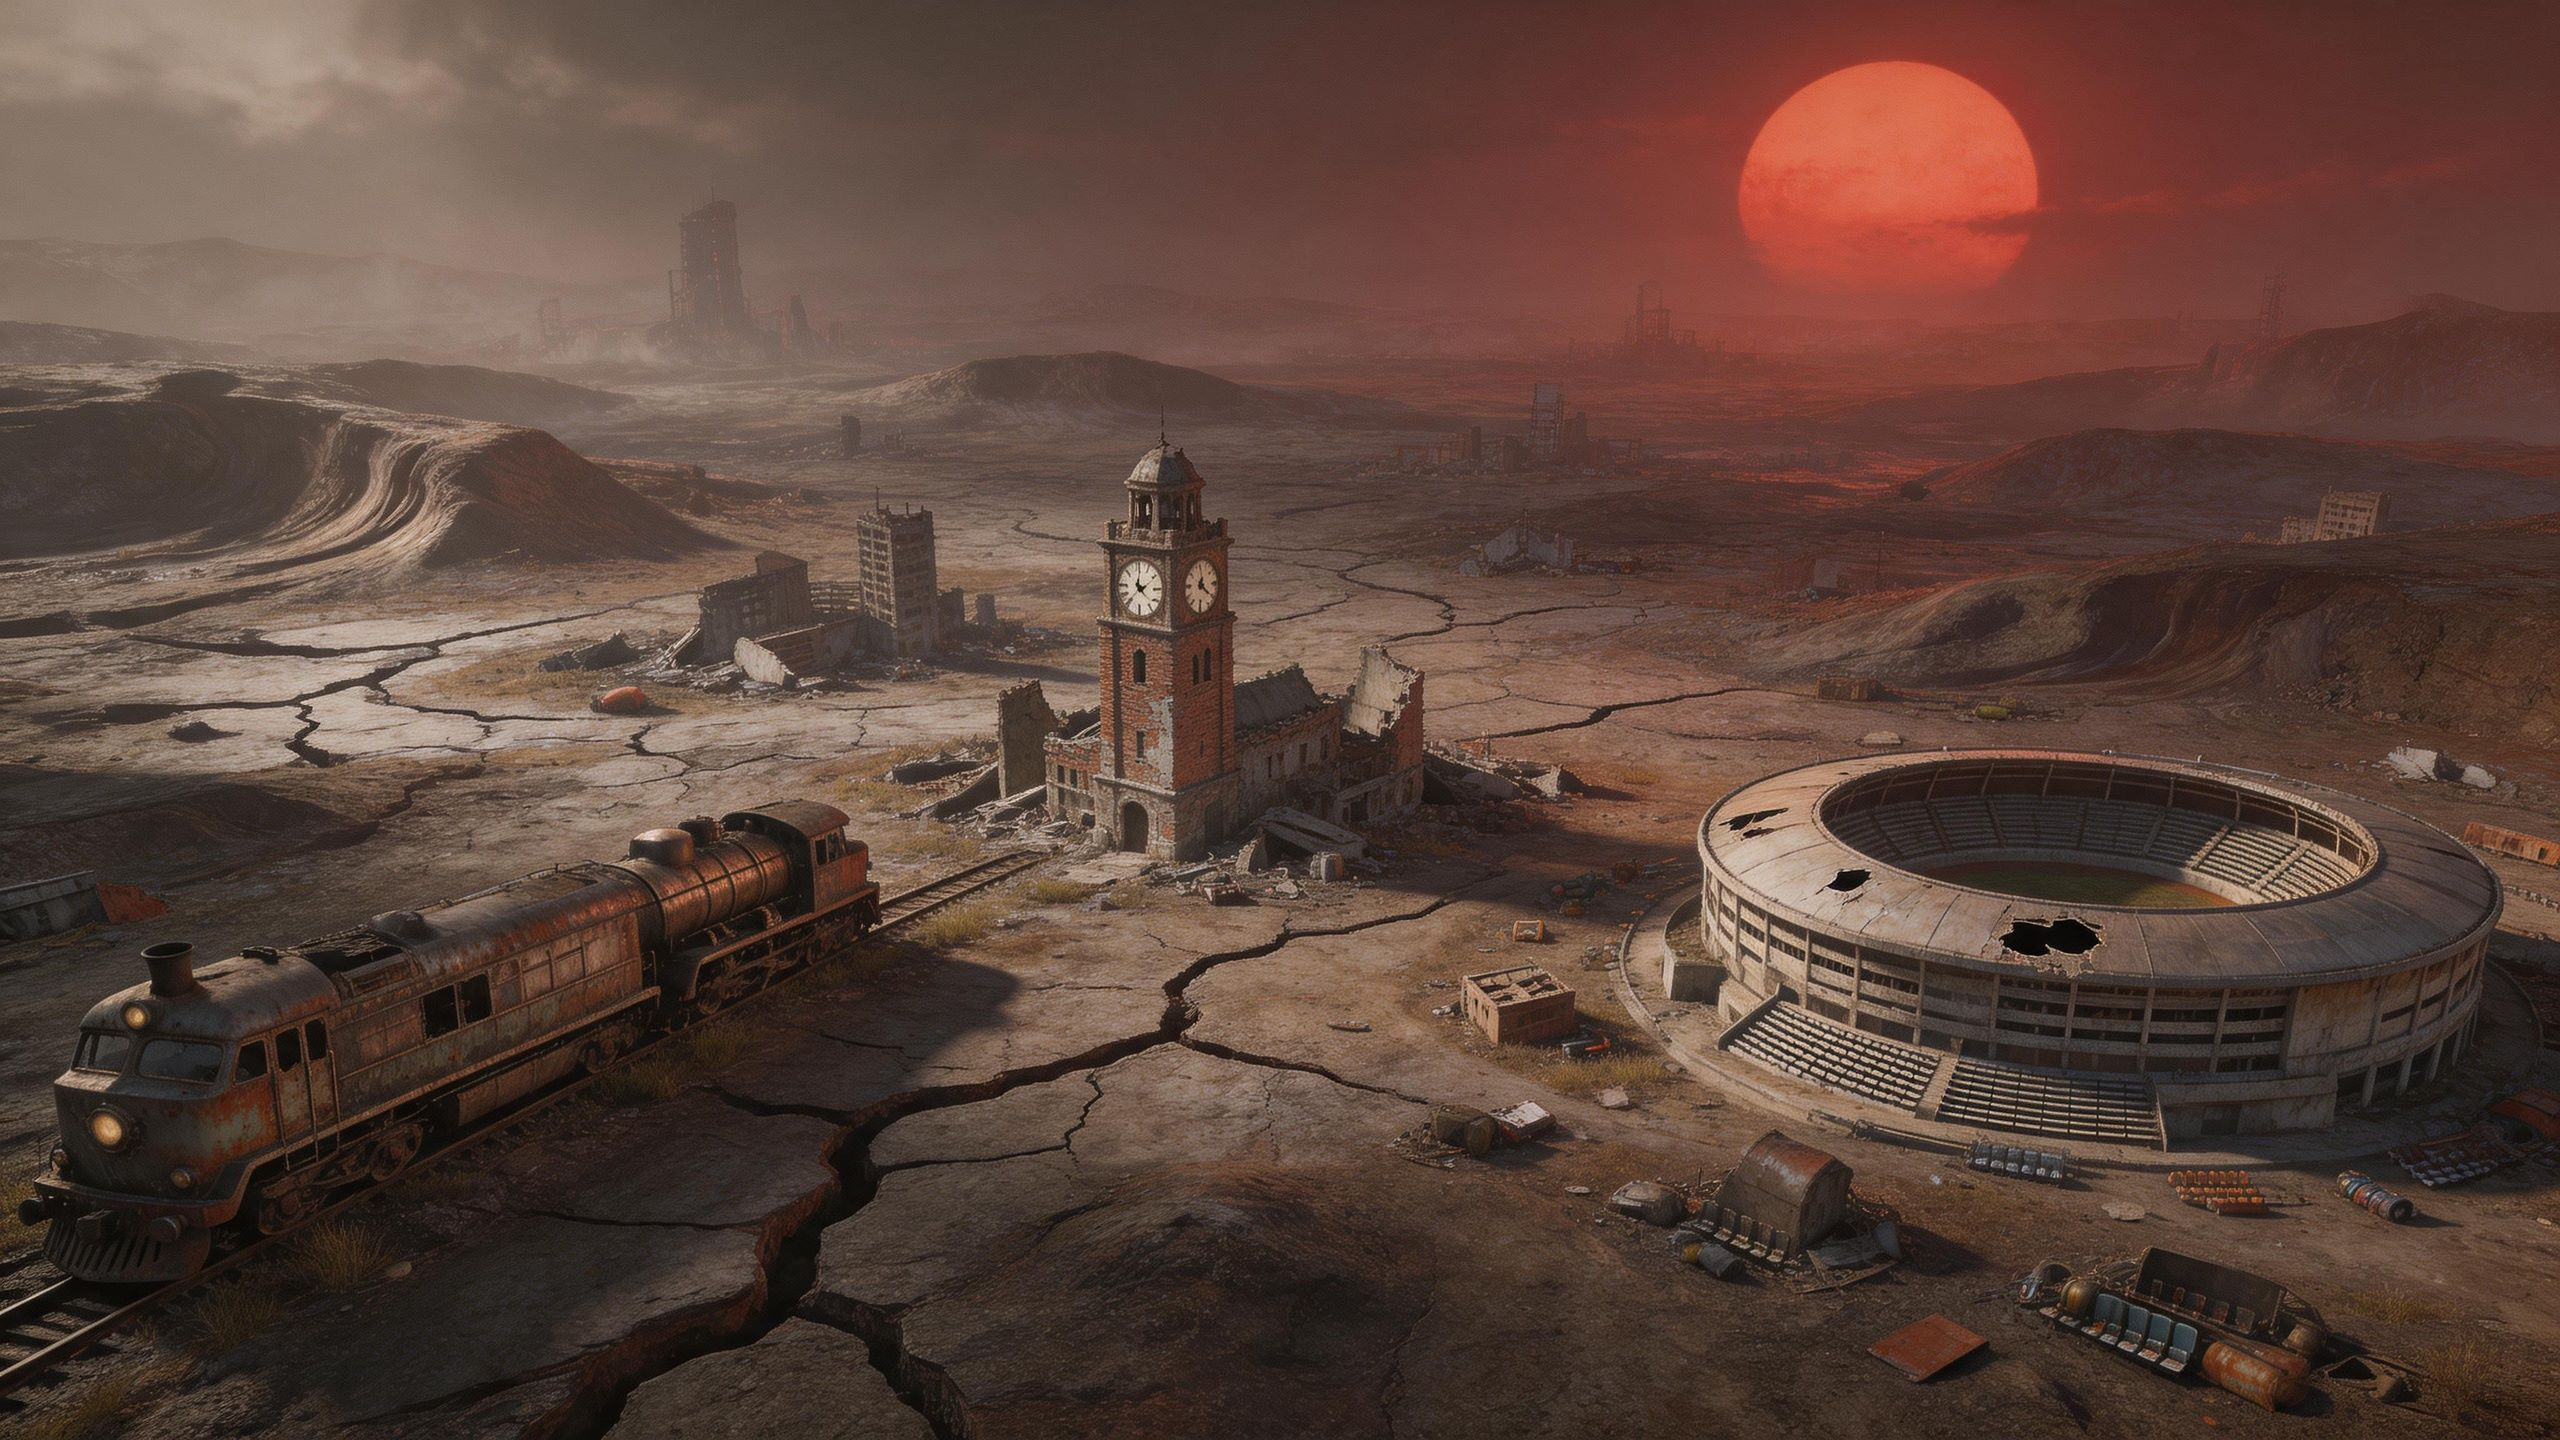
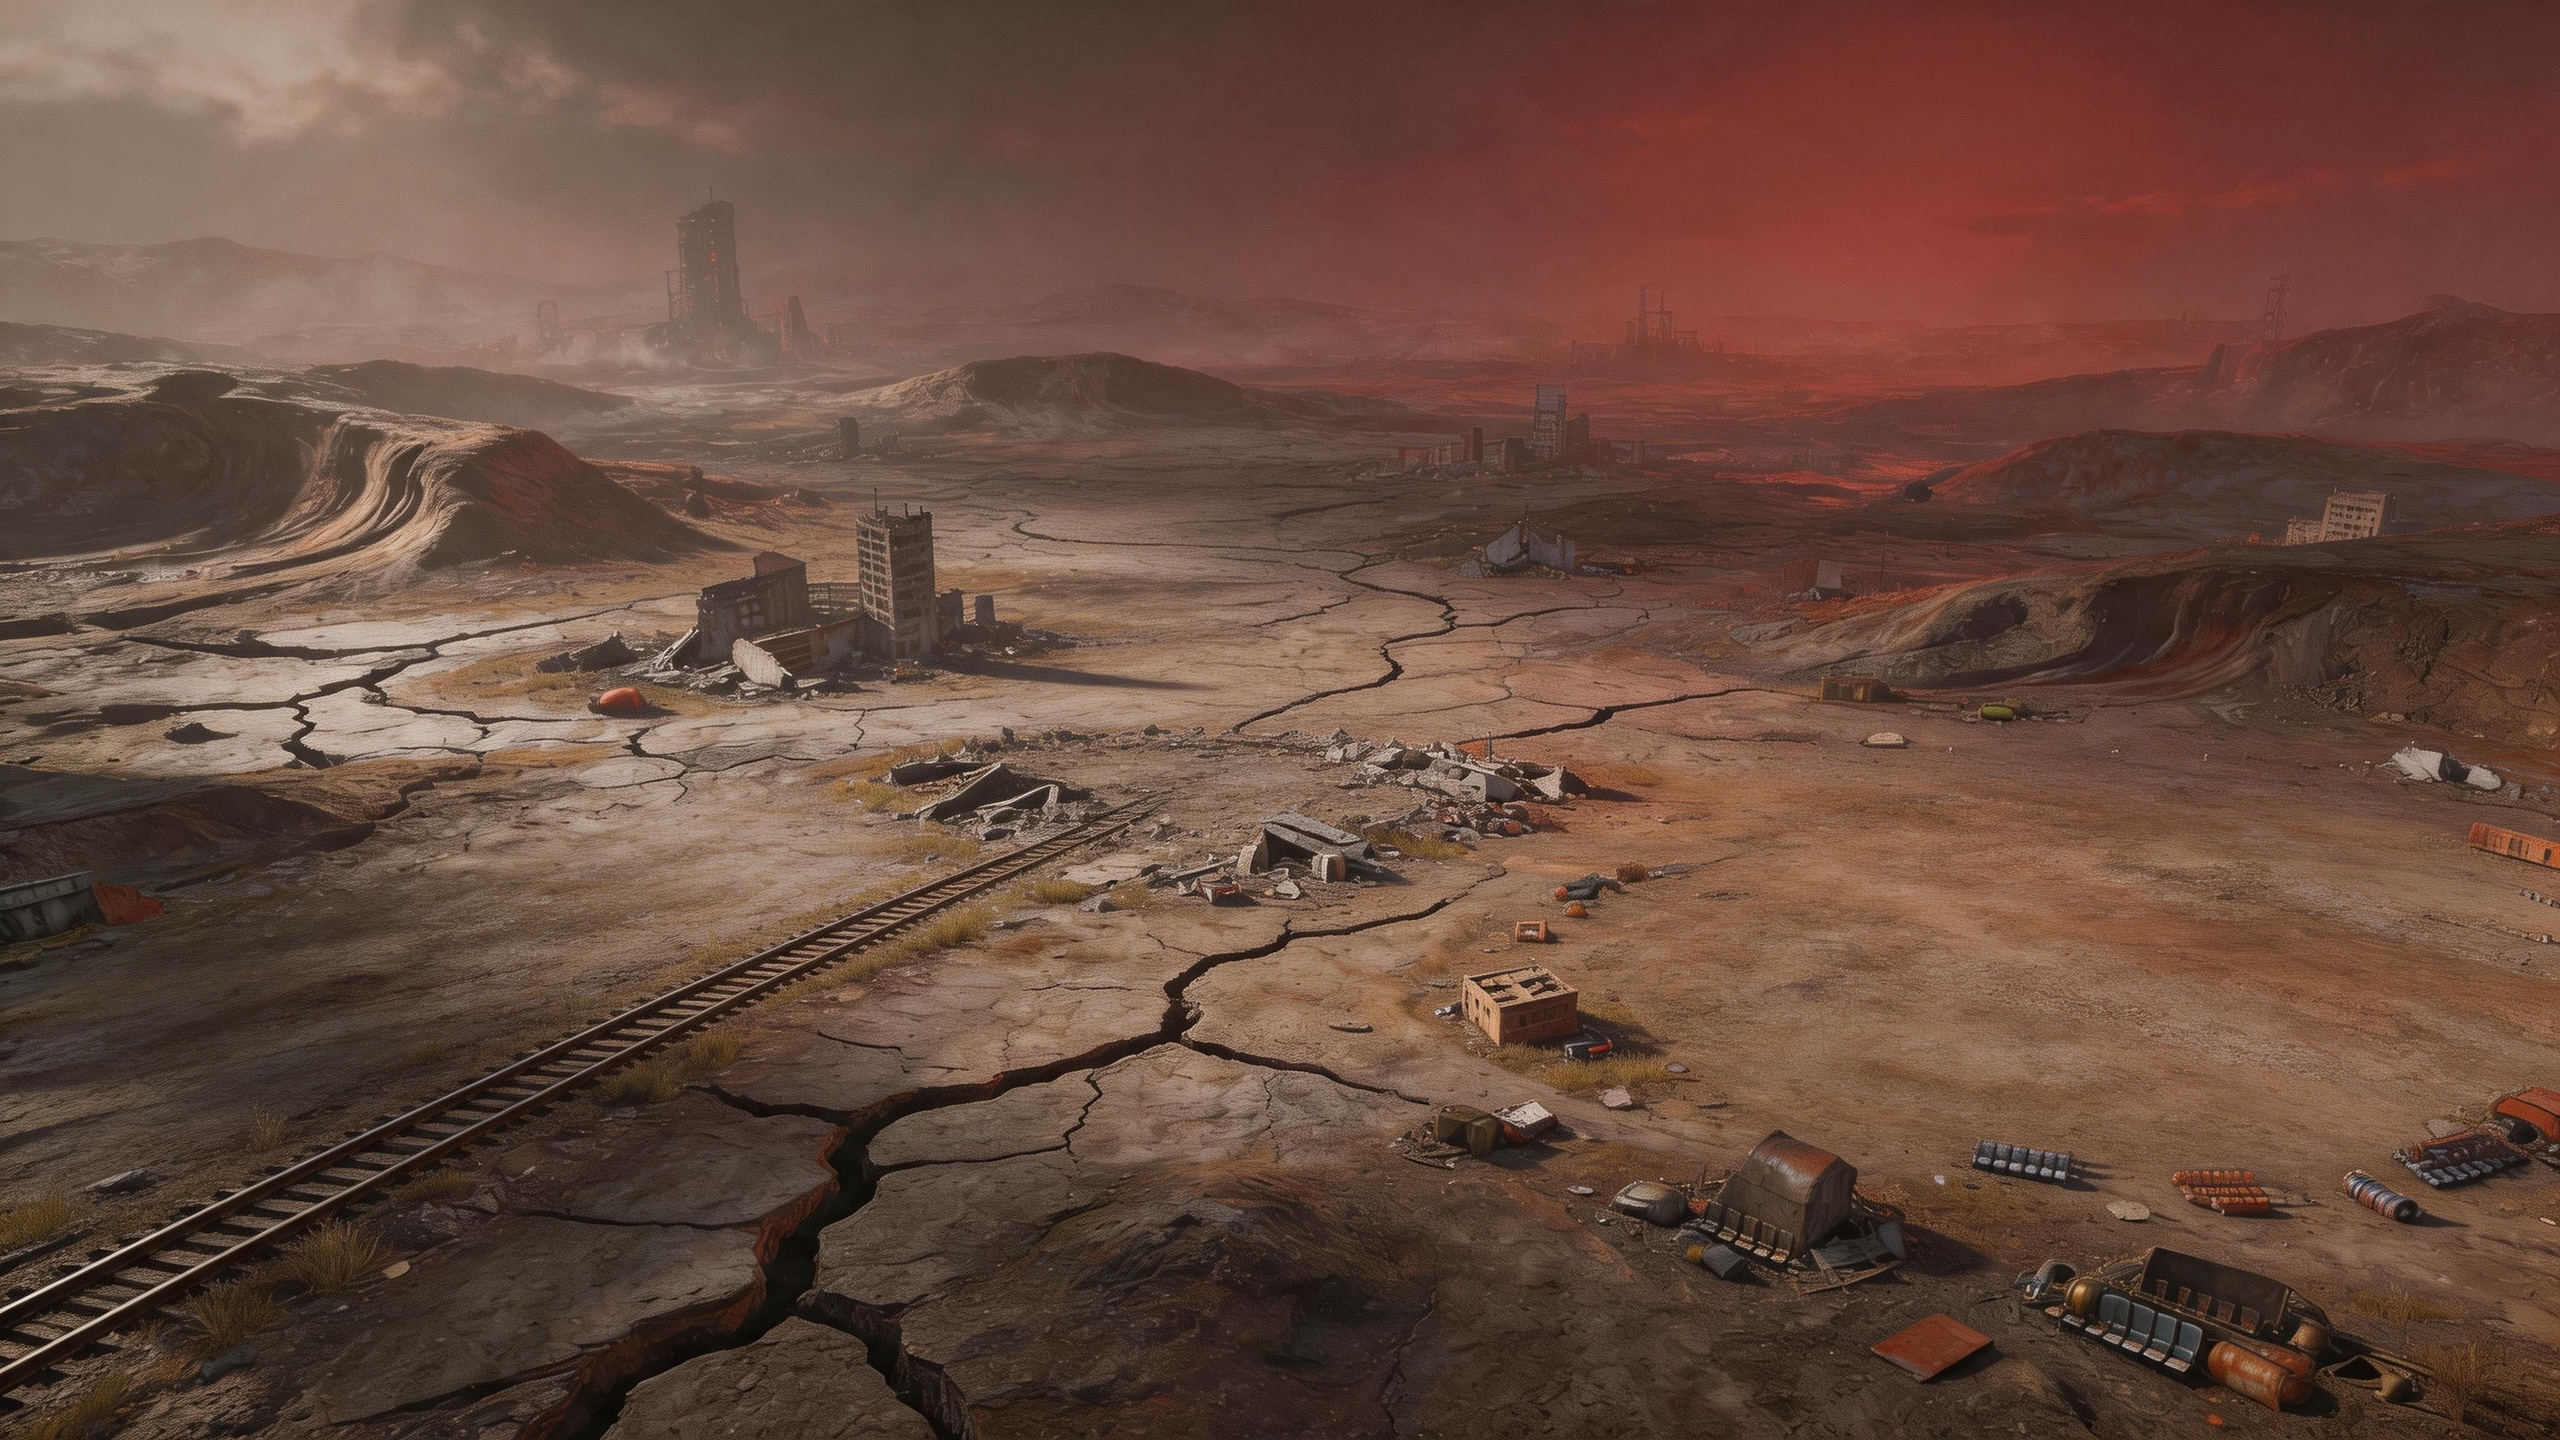
update grea people, fix login error

diff --git a/src/view/system/greatPeople.js b/src/view/system/greatPeople.js
@@ -264,7 +264,7 @@ export class GreatPeopleMapSystem {
     // 开发者调试工具相关的状态记录
     this.currentDebugImg = null;
     this.currentDebugData = null;
-    this.currentCoverScale = 1;
+    this.currentMapScale = 1;
 
     this.create();
   }
@@ -285,30 +285,52 @@ export class GreatPeopleMapSystem {
     this.container = this.scene.add.container(0, 0);
     this.container.setDepth(2000);
 
-    // 全屏纯黑打底遮罩
-    const fullBg = this.scene.add.rectangle(0, 0, width, height, 0x000000, 1);
+    // 全屏黑色半透明打底遮罩 (覆盖 16:9 以外空出的区域)
+    const fullBg = this.scene.add.rectangle(0, 0, width, height, 0x000000, 0.85);
     fullBg.setOrigin(0, 0);
     this.preventEventPenetration(fullBg);
     this.container.add(fullBg);
 
-    // 1. 渲染大地图，并应用 background-size: cover 逻辑
+    // 1. 渲染大地图，强制 16:9 并在屏幕居中 (类似 contain 逻辑)
     const bgKey = `map_bg_${this.mapId}`;
     const mapImg = this.scene.add.image(width / 2, height / 2, bgKey);
 
-    // 获取原图大小以计算比例
+    const targetRatio = 16 / 9;
+    const screenRatio = width / height;
+
+    let mapDisplayWidth, mapDisplayHeight;
+
+    if (screenRatio > targetRatio) {
+      // 屏幕比 16:9 更宽，以高度为基准铺满，左右留黑边
+      mapDisplayHeight = height;
+      mapDisplayWidth = height * targetRatio;
+    } else {
+      // 屏幕比 16:9 更高，以宽度为基准铺满，上下留黑边
+      mapDisplayWidth = width;
+      mapDisplayHeight = width / targetRatio;
+    }
+
+    // 计算 16:9 区域的左上角起点 (用于坐标换算)
+    const mapStartX = (width - mapDisplayWidth) / 2;
+    const mapStartY = (height - mapDisplayHeight) / 2;
+
+    // 存入实例供事件坐标计算和拖拽工具使用
+    this.mapStartX = mapStartX;
+    this.mapStartY = mapStartY;
+    this.mapDisplayWidth = mapDisplayWidth;
+    this.mapDisplayHeight = mapDisplayHeight;
+
+    // 强制设定地图为 16:9 显示尺寸
+    mapImg.setDisplaySize(mapDisplayWidth, mapDisplayHeight);
+
+    // 获取原图实际大小以计算事件图片的基础缩放比例
     const imgW = mapImg.width || 1;
-    const imgH = mapImg.height || 1;
+    const mapScale = mapDisplayWidth / imgW;
+    this.currentMapScale = mapScale;
 
-    const scaleX = width / imgW;
-    const scaleY = height / imgH;
-
-    // 取宽高中最大的那个进行等比缩放 (实现 cover 效果)
-    const coverScale = Math.max(scaleX, scaleY);
-    this.currentCoverScale = coverScale; // 存入实例供调试工具使用
-    mapImg.setScale(coverScale);
     this.container.add(mapImg);
 
-    // --- 新增：在正上方加上 map.name ---
+    // --- 在屏幕正上方加上 map.name ---
     if (this.mapData.name) {
       const mapTitleText = this.scene.add.text(width / 2, 50, this.mapData.name, {
         fontSize: '48px', color: '#ffffff', fontStyle: 'bold',
@@ -321,16 +343,16 @@ export class GreatPeopleMapSystem {
     // 创建开发者调试UI (默认隐藏)
     this.createDebugPanel();
 
-    // 2. 根据记录的地图缩放比例渲染事件图片
+    // 2. 根据记录的 16:9 地图边界渲染事件图片
     if (this.mapData.events) {
       for (const [evtKey, evtData] of Object.entries(this.mapData.events)) {
         if (!evtData.image || !evtData.location) continue; // 如果没有图片或坐标数据则跳过
 
         const loc = evtData.location;
 
-        // 公式：页面宽度 * 百分比x[0] + 偏移量x[1]
-        const posX = width * (loc.x[0] || 0) + (loc.x[1] || 0);
-        const posY = height * (loc.y[0] || 0) + (loc.y[1] || 0);
+        // 公式：16:9区域左上角起点 + 区域宽高 * 百分比 + 偏移量
+        const posX = mapStartX + mapDisplayWidth * (loc.x[0] || 0) + (loc.x[1] || 0);
+        const posY = mapStartY + mapDisplayHeight * (loc.y[0] || 0) + (loc.y[1] || 0);
 
         const eventImgKey = `map_event_${this.mapId}_${evtKey}`;
         const eventImg = this.scene.add.image(posX, posY, eventImgKey);
@@ -340,14 +362,44 @@ export class GreatPeopleMapSystem {
         if (loc.x[1] === undefined) loc.x[1] = 0;
         if (loc.y[1] === undefined) loc.y[1] = 0;
 
-        // 实际缩放比例 = 之前记录的地图缩放比例 * 自身配置的scale
-        const finalScale = coverScale * loc.scale;
+        // 实际缩放比例 = 地图基础缩放比例 * 自身配置的scale
+        const finalScale = mapScale * loc.scale;
         eventImg.setScale(finalScale);
 
         // --- 开发/正式 切换区 --- 
-        // 开启了 draggable: true 支持拖拽
-        eventImg.setInteractive({ useHandCursor: true, draggable: true });
+        // 开启了 draggable: true 支持拖拽，增加 pixelPerfect 开启像素级点击检测（忽略全透明区域）
+        eventImg.setInteractive({
+          useHandCursor: true,
+          draggable: true,
+          pixelPerfect: true
+        });
         this.preventEventPenetration(eventImg);
+
+        let highlightFx = null;
+        if (eventImg.preFX) {
+          // 参数：color(白色), outerStrength(粗细), innerStrength, knockout
+          highlightFx = eventImg.preFX.addGlow(0xffffff, 4, 0, false);
+          highlightFx.setActive(false); // 默认关闭高光
+        }
+
+        eventImg.on('pointerover', (p, lx, ly, e) => {
+          if (e) e.stopPropagation();
+          if (highlightFx) {
+            highlightFx.setActive(true);
+          } else {
+            // 如果遇到旧版本 Phaser 或不支持 preFX，降级为图片变暗
+            eventImg.setTint(0xcccccc);
+          }
+        });
+
+        eventImg.on('pointerout', (p, e) => {
+          if (e) e.stopPropagation();
+          if (highlightFx) {
+            highlightFx.setActive(false);
+          } else {
+            eventImg.clearTint();
+          }
+        });
 
         // 点击事件：当前为触发调试小窗。正式版将这部分注释掉，解开下方的 function 触发
         eventImg.on('pointerdown', (p, lx, ly, e) => {
@@ -367,15 +419,15 @@ export class GreatPeopleMapSystem {
           eventImg.x = dragX;
           eventImg.y = dragY;
 
-          // 重新计算百分比（精确到两位小数）并反向推算产生的小幅像素偏差，保证强适配性
-          const newPercentX = Math.round((dragX / width) * 100) / 100;
-          const newPercentY = Math.round((dragY / height) * 100) / 100;
+          // 根据 16:9 区域边界重新计算百分比（精确到两位小数）并反推小幅像素偏差
+          const newPercentX = Math.round(((dragX - mapStartX) / mapDisplayWidth) * 100) / 100;
+          const newPercentY = Math.round(((dragY - mapStartY) / mapDisplayHeight) * 100) / 100;
 
           loc.x[0] = newPercentX;
-          loc.x[1] = Math.round(dragX - width * newPercentX);
+          loc.x[1] = Math.round(dragX - (mapStartX + mapDisplayWidth * newPercentX));
 
           loc.y[0] = newPercentY;
-          loc.y[1] = Math.round(dragY - height * newPercentY);
+          loc.y[1] = Math.round(dragY - (mapStartY + mapDisplayHeight * newPercentY));
 
           // 如果调试面板刚好打开了这个对象，实时刷新参数
           if (this.currentDebugImg === eventImg) {
@@ -464,7 +516,7 @@ export class GreatPeopleMapSystem {
     // 解决浮点数精度问题，如 1.01000000001
     loc.scale = Math.round(loc.scale * 100) / 100;
 
-    const finalScale = this.currentCoverScale * loc.scale;
+    const finalScale = this.currentMapScale * loc.scale;
     this.currentDebugImg.setScale(finalScale);
     this.updateDebugText();
   }

diff --git a/src/data/great_people_map.js b/src/data/great_people_map.js
@@ -6,22 +6,24 @@ export const GREAT_PEOPLE_MAP = {
       clock: {
         image: 'assets/great_people/map/sqzd/sqzd_clock.png',
         location: {
-          x: [0.5, -1],
-          y: [0.46, -4],
+          x: [0.5, -3],
+          y: [0.46, 3],
           scale: 1
         },
         function: function ({ }) { },
       },
       gym: {
+        des: '强化',
         image: 'assets/great_people/map/sqzd/sqzd_gym.png',
         location: {
-          x: [0.81, 5],
-          y: [0.74, -1],
+          x: [0.82, -6],
+          y: [0.7, 1],
           scale: 1
         },
         function: function ({ }) { },
       },
       sun: {
+        des: '激发',
         image: 'assets/great_people/map/sqzd/sqzd_sun.png',
         location: {
           x: [0.74, -3],
@@ -31,13 +33,54 @@ export const GREAT_PEOPLE_MAP = {
         function: function ({ }) { },
       },
       train: {
+        des: '选拔？核心？',
         image: 'assets/great_people/map/sqzd/sqzd_train.png',
         location: {
-          x: [0.2, 1],
-          y: [0.79, 1],
+          x: [0.18, -2],
+          y: [0.76, 2],
           scale: 1.01
         },
         function: function ({ }) { },
+      },
+    }
+  },
+  mysteryUni: {
+    name: '秘法学校',
+    url: 'assets/great_people/map/mysteryUni/mysteryUni.jpg',
+    events: {
+      main: {
+        image: 'assets/great_people/map/mysteryUni/main.png',
+        location: {
+          x: [0.69, -5],
+          y: [0.28, 1],
+          scale: 1.6
+        },
+      },
+      library: {
+        des: '发现传奇生物',
+        image: 'assets/great_people/map/mysteryUni/library.png',
+        location: {
+          x: [0.17, -3],
+          y: [0.76, -5],
+          scale: 1
+        },
+      },
+      fountain: {
+        des: '许愿？',
+        image: 'assets/great_people/map/mysteryUni/fountain.png',
+        location: {
+          x: [0.7, 8],
+          y: [0.78, 3],
+          scale: 1
+        },
+      },
+      magic: {
+        image: 'assets/great_people/map/mysteryUni/magic.png',
+        location: {
+          x: [0.19, 0],
+          y: [0.46, 0],
+          scale: 1.41
+        },
       },
     }
   },

diff --git a/src/scene/SaveSelectScene.js b/src/scene/SaveSelectScene.js
@@ -86,8 +86,10 @@ export class SaveSelectScene extends Phaser.Scene {
       padding: { top: 10 },
     }).setOrigin(0);
 
+    let eraName = save.era;
+    if (ERA[save.era]?.name) eraName = ERA[save.era].name;
     const infoText = this.add.text(-width / 2 + 20, -height / 2 + 80,
-      `${ERA[save.era].name} · 第${save.turn}回合`, {
+      `${eraName} · 第${save.turn}回合`, {
       fontSize: '16px',
       color: '#aaaaaa',
       padding: { top: 10 },